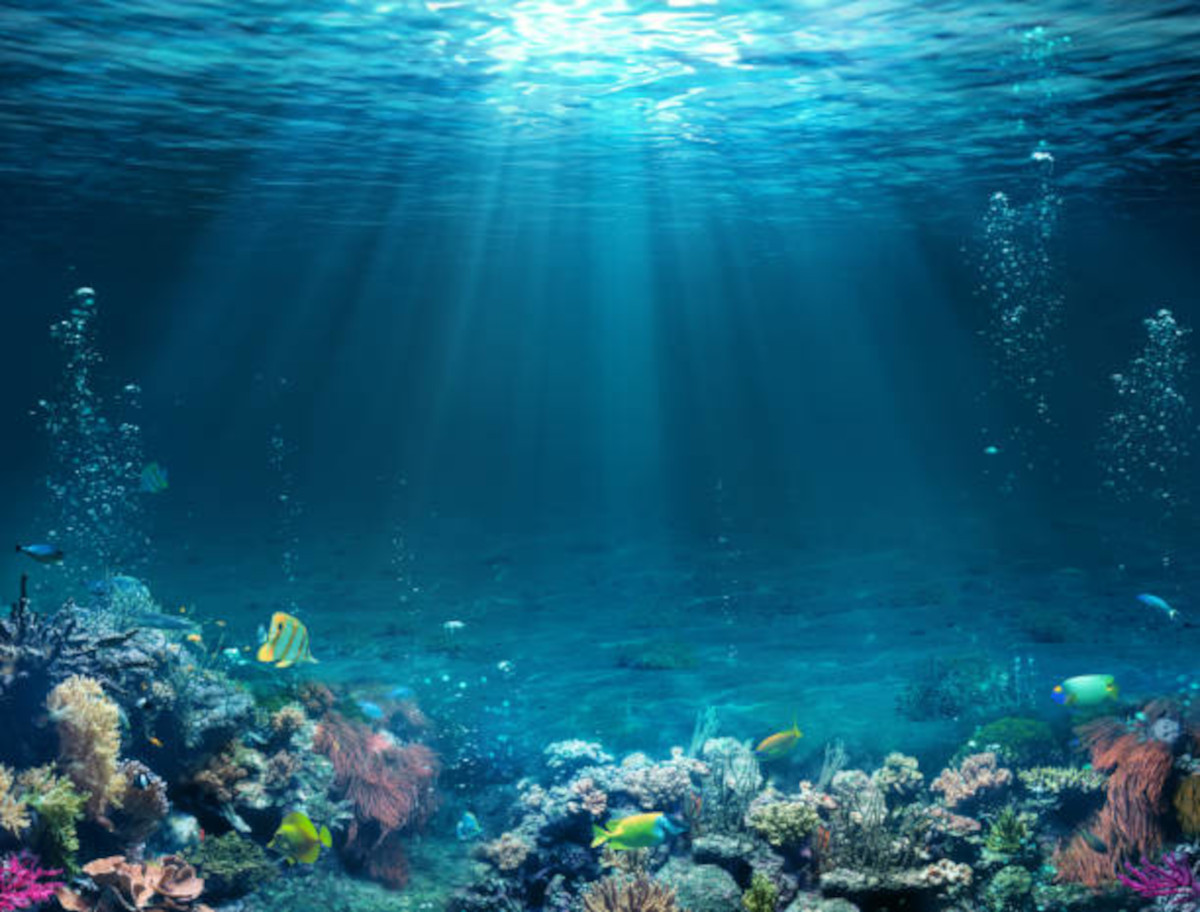
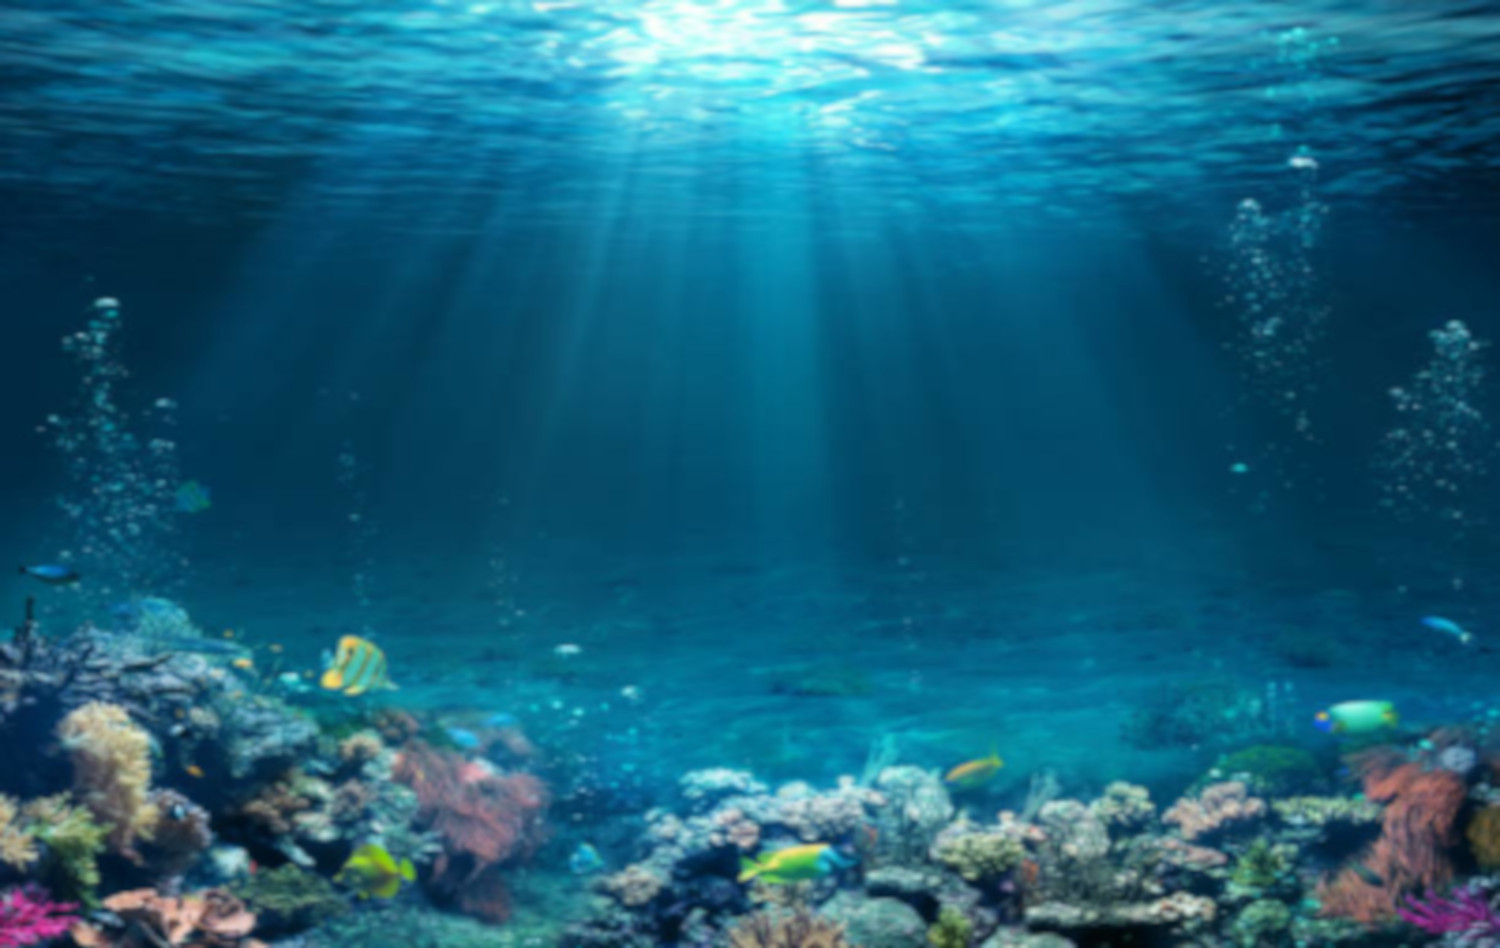
add

diff --git a/html/index.html b/html/index.html
@@ -22,10 +22,19 @@
 </nav>
     <main>
         <section class="apresentaçao">
-            <img src="../imagens/logo-neipeixes.png" alt="logo da loja">
+            <img src="imagens/logo-neipeixes.png" alt="logo da loja">
 
             <p>
                 nossa loja é a Nº 1 de vendas <br>de peixes ornamentais do brasil
+            </p>
+        </section>
+
+        <section class="imagem" id="imagem01"> 
+            <p>
+                vendemos peixes, corais,<br>
+                agua viva, estrela do mar,<br>
+                todos os tipos de familias <br>
+                de agua salgada e doce
             </p>
         </section>
     </main>

diff --git a/html/style.css b/html/style.css
@@ -96,3 +96,23 @@ body{
     font-weight: bolder;
     font-size: 30px;
 }
+section.imagem p {
+    background-color: rgba(255, 255, 255, 0.24);
+    color: white;
+    width: 300px;
+    text-shadow: 2px 2px 3px black;
+    font-size: 20px;
+    padding: 20px;
+    font-family: var(--fonte-pagina);
+}
+section.imagem{
+    height: 300px;
+    padding-top: 150px;
+    margin-bottom: 200px;
+}
+#imagem01{
+    background-image: url('imagens/funfo-do-mar023png.jpg');
+    background-position: center, center;
+    background-attachment: fixed;
+    
+}
